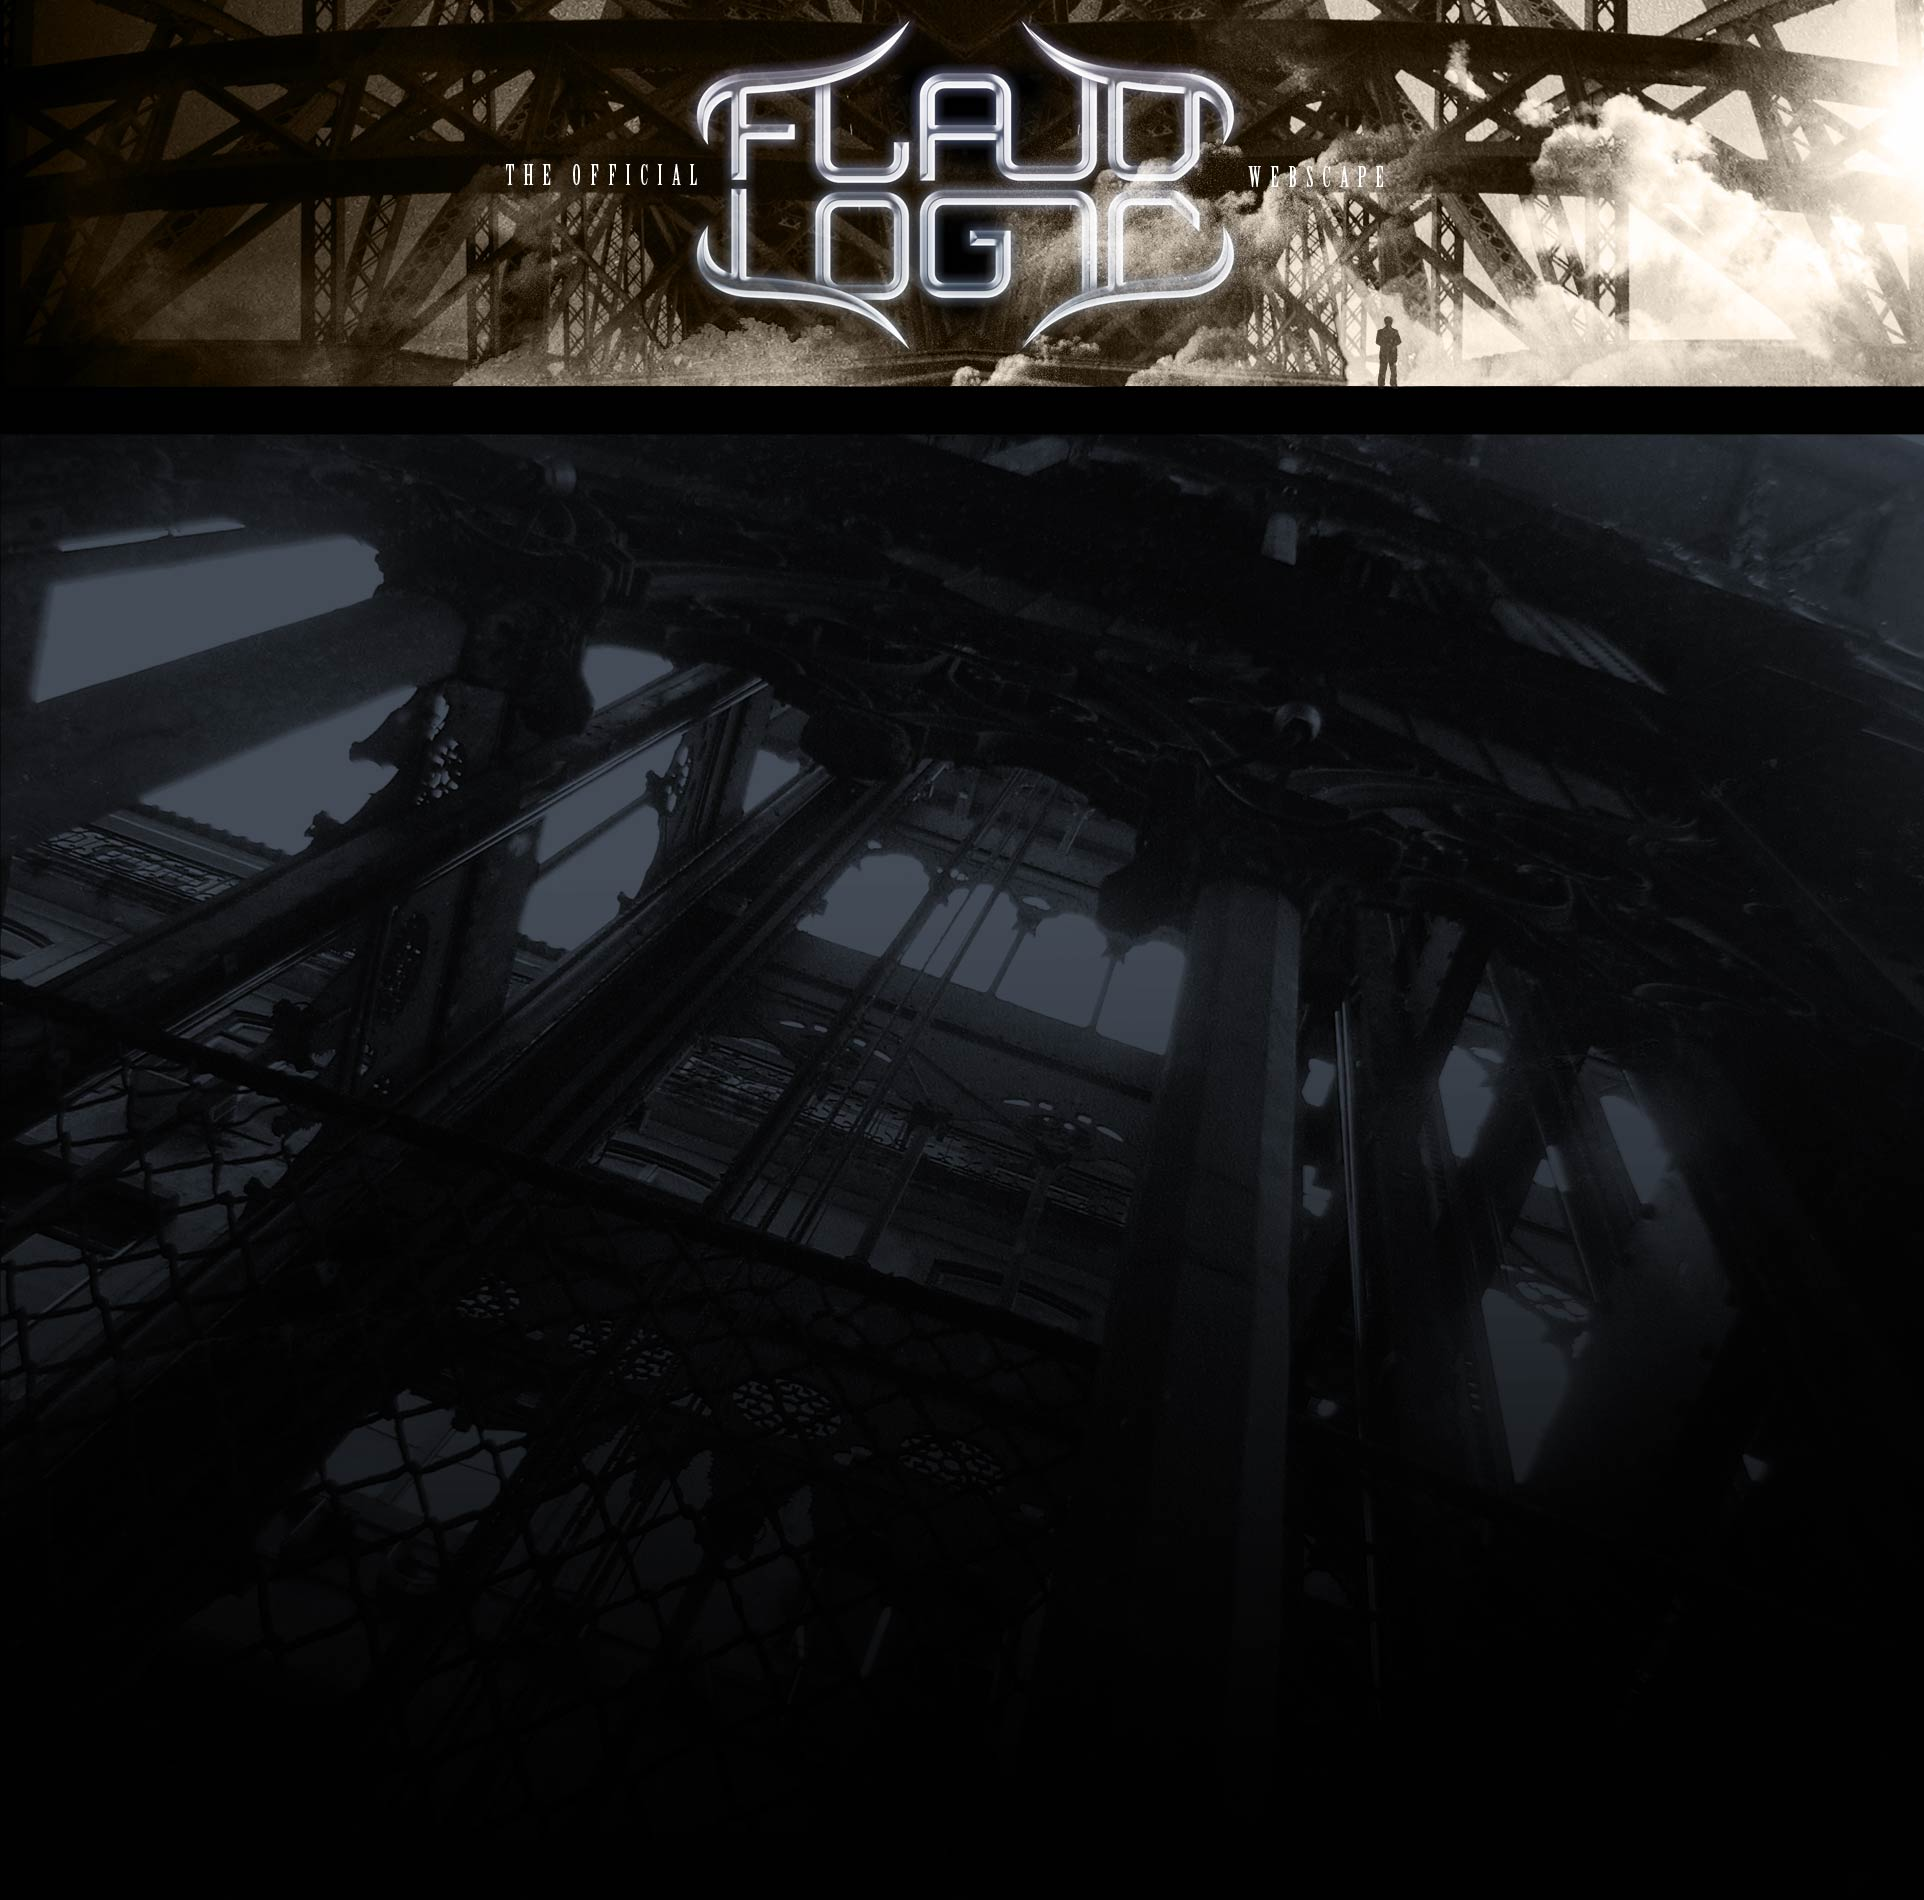
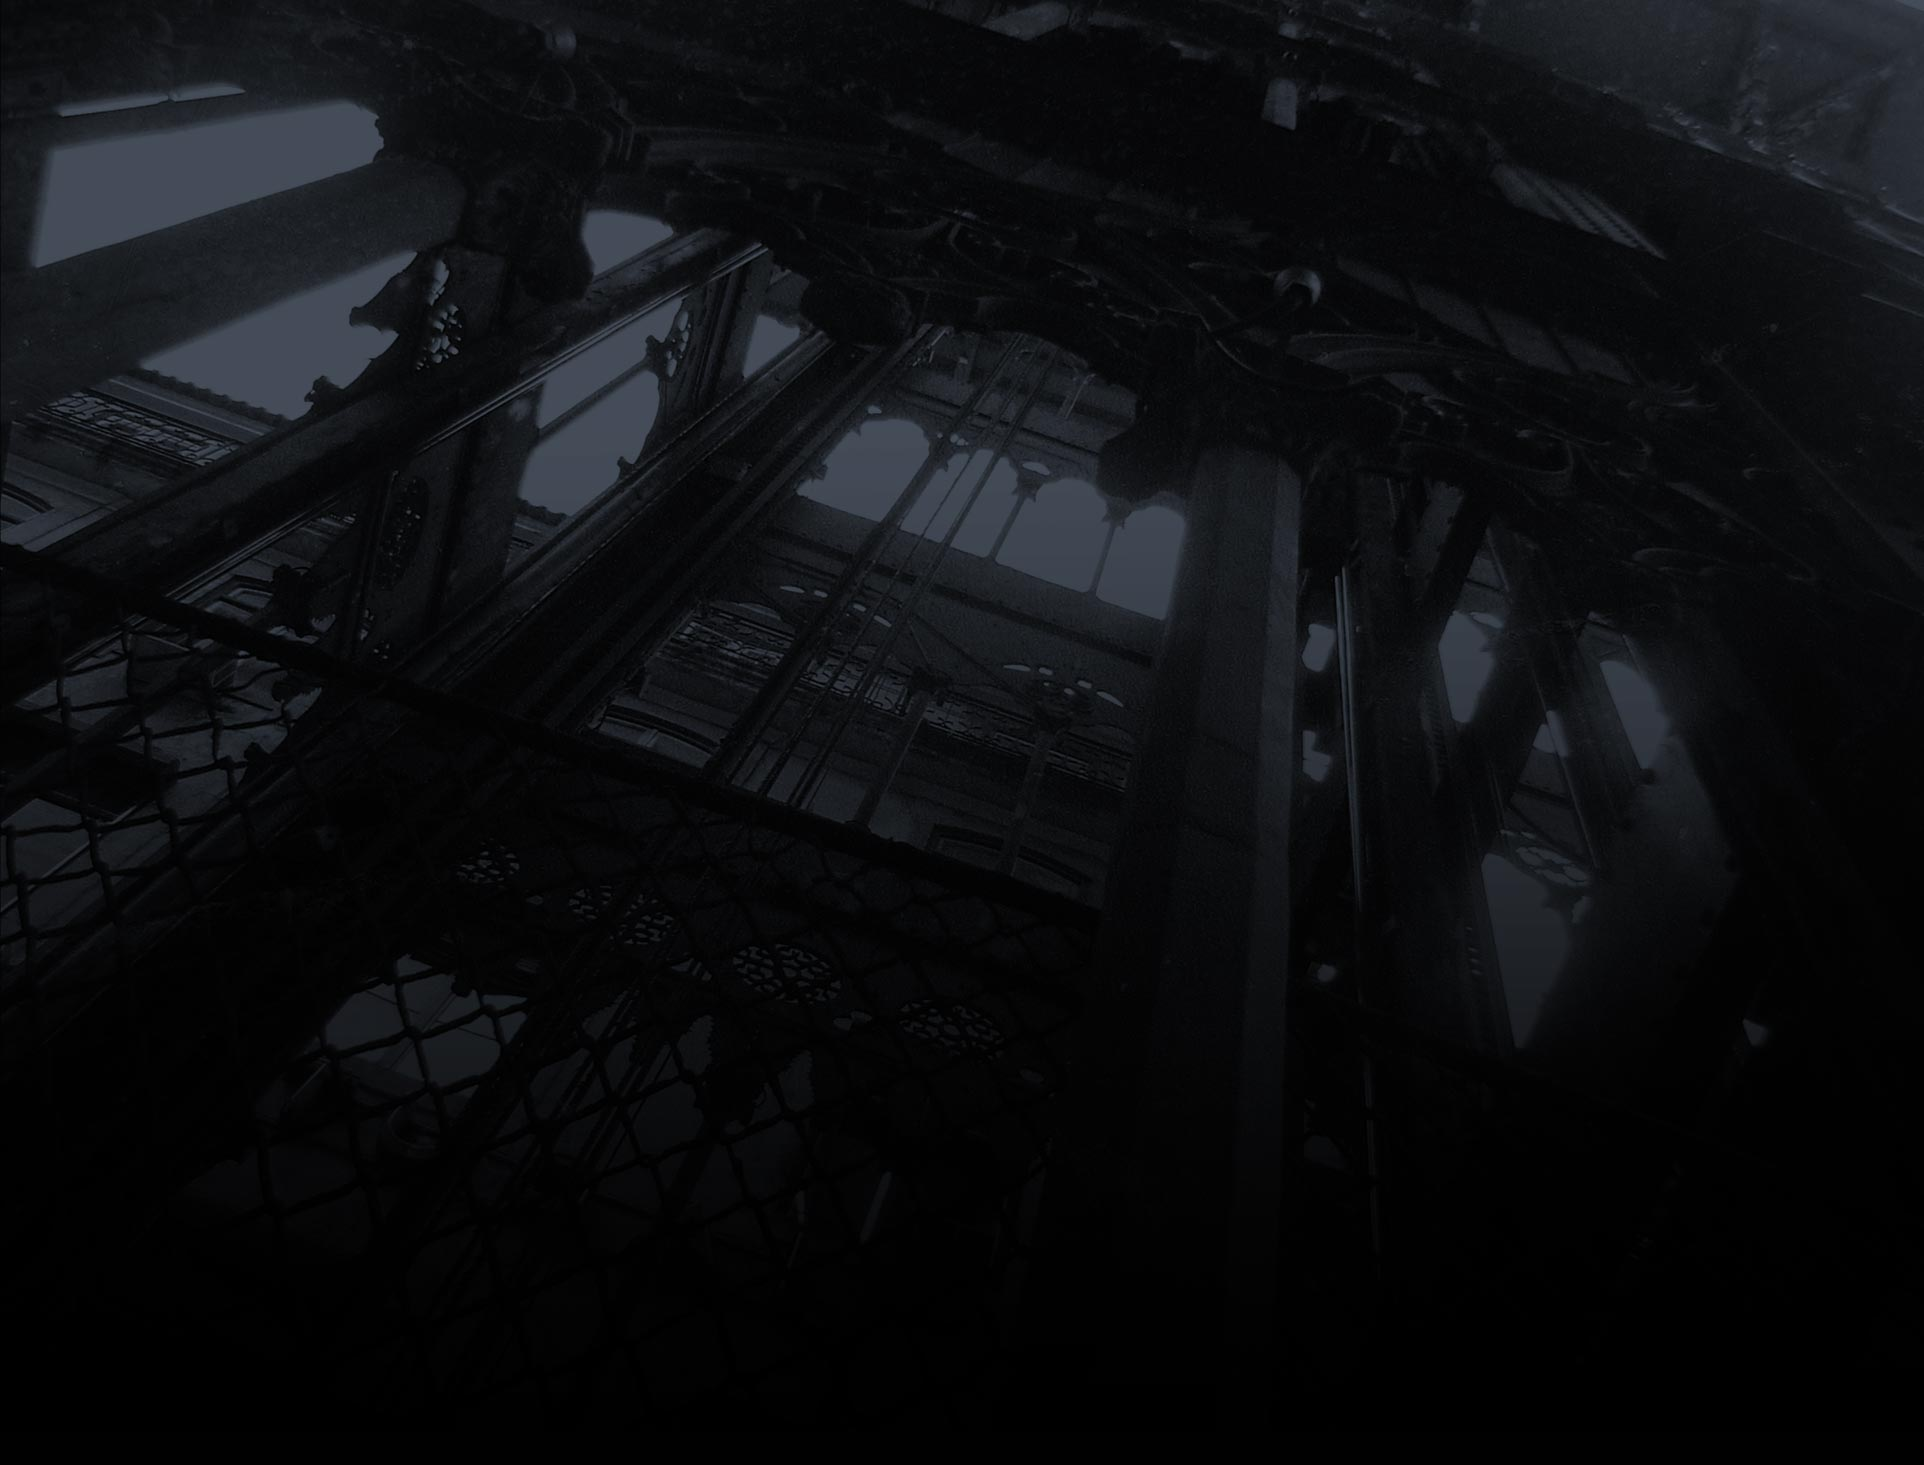
Refactor existing layout to responsive web design. In progress.

diff --git a/src/App.scss b/src/App.scss
@@ -11,6 +11,7 @@
 @import './components/common/Footer';
 @import './components/common/SocialMediaIcons';
 @import './components/common/CDBabyBuyNow';
+@import './components/common/Header';
 @import './components/MemberCard/MemberCard';
 @import './components/Navigation/Navigation';
 @import './components/DynamicImageGrid/DynamicImageGrid';
@@ -27,23 +28,16 @@
 @import './pages/SplashPage';
 @import './pages/HomePage';
 
-* {
-	box-sizing: border-box;
-}
-html, body {
-    height: 100%;
-    margin: 0px 0px 1px;
-    padding: 0px;
+html {
+		box-sizing: border-box;
+		margin: 0;
+		padding: 0;
 }
 body {
-    @include fontRender($cl-white, 400, 'Open Sans', 15px, 20px, normal);
-    background-color: $cl-black;
-    background-image: url('./images/art_bkgd.jpg');
-    background-position: center top;
-    background-repeat: no-repeat;
-    background-attachment: scroll;
-    color: $cl-white;
-    margin: 0px 0px 0px 0px;
+	background: $cl-black url('./images/art_bkgd.jpg') no-repeat 0px 436px scroll;
+	background-size: cover;
+  @include fontRender($cl-white, 400, 'Open Sans', 15px, 20px, normal);
+	color: $cl-white;
 }
 
 p {
@@ -164,12 +158,12 @@ button {
 
 //HomeCarousel
 .slick-slider .slick-track, .slick-slider .slick-list {
-	//height: 250px;
+	height: 400px;
 	margin: 2px 0px 10px 0px;
 }
 .slick-slide {
 	img {
-		height: auto;
-		width: 100%;
+		height: 100%;
+		width: auto;
 	}
 }

diff --git a/src/layout/Layout.js b/src/layout/Layout.js
@@ -10,17 +10,19 @@ export default class Layout extends React.Component {
 
     render() {
         return (
+<>
+            <Header>
+                <Navigation />
+            </Header>
             <div id="content-container" className={this.props.pageClass}>
-                <Header>
-                    <Navigation />
-                </Header>
                 <div className="column left">
                     {this.props.children}
                 </div>
                 {this.props.hasSidebar ? <div className="column right"><CDBabyBuyNow /><TwitterTimeline /></div> : ''}
                 <div style={{clear: 'both'}}/>
-                <Footer />
             </div>
+            <Footer />
+</>
         )
     }
 }

diff --git a/src/components/HomeCarousel/index.js b/src/components/HomeCarousel/index.js
@@ -31,8 +31,8 @@ export default class HomeCarousel extends React.Component {
             {Object.keys(mktg).map((key, index) => {
                 images.push(mktg[key]);
                 return (
-                  <div>
-                       <img key={index} onClick={() => this.setState({isOpen:true, photoIndex: index})} src={mktg[key]} alt=""/>
+                  <div key={index}>
+                       <img onClick={() => this.setState({isOpen:true, photoIndex: index})} src={mktg[key]} alt=""/>
                   </div>
                 )
 

diff --git a/src/layout/Layout.scss b/src/layout/Layout.scss
@@ -1,17 +1,20 @@
 #content-container {
-    width: 1264px;
-    margin: 0px auto 0px auto;
+    border: 1px solid green;
+    margin: 0 auto;
+    width: 1400px;
+
 }
 
 div.column {
-  float: left;
+  display: inline-block;
+  vertical-align: top;
 
   &.left {
-    width: 796px;
-    padding: 28px 0px 0px 138px;
+    width: 1046px;
+    padding: 0px 0px 0px 0px;
   }
   &.right {
-    width: 468px;
-    padding: 41px 0px 0px 17px;
+    width: 337px;
+    padding: 4px 0px 0px 17px;
   }
 }

diff --git a/public/index.html b/public/index.html
@@ -3,7 +3,7 @@
   <head>
     <meta charset="utf-8" />
     <link rel="icon" href="%PUBLIC_URL%/favicon.ico" />
-    <meta name="viewport" content="width=device-width, initial-scale=1" />
+    <meta name="viewport" content="width=device-width, initial-scale=1, user-scalable=no" />
     <meta name="theme-color" content="#000000" />
     <meta
       name="description"

diff --git a/src/components/Navigation/Navigation.scss b/src/components/Navigation/Navigation.scss
@@ -1,8 +1,8 @@
 header {
   nav {
-    background: transparent url('../../images/art_nav_bkgd.gif') no-repeat scroll left top;
+    background: $cl-black url('../../images/art_nav_bkgd.gif') no-repeat scroll center top;
     height: 48px;
-    margin: 386px 0px 0px 0px;
+    margin: 0;
     padding: 0px;
     text-align: center;
     ul {

diff --git a/src/components/common/Header.js b/src/components/common/Header.js
@@ -1,9 +1,11 @@
 import React from 'react';
+import HeaderBkgd from '../../images/art_hdr.jpg';
 
 export default class Analytics extends React.Component {
     render () {
         return (
             <header>
+                <img src={HeaderBkgd} />
                 {this.props.children}
             </header>
         );

diff --git a/src/components/common/Footer.scss b/src/components/common/Footer.scss
@@ -1,6 +1,3 @@
-//@import '../../less/colors';
-//@import '../../less/mixins';
-
 footer {
   margin: 100px auto 0px auto;
   width: 1264px;

diff --git a/src/components/common/Header.scss b/src/components/common/Header.scss
@@ -1,0 +1,8 @@
+header {
+  background-color: $cl-black;
+  border: 1px solid teal;
+  img {
+    width: 100%;
+    height: auto;
+  }
+}

diff --git a/src/pages/HomePage.scss b/src/pages/HomePage.scss
@@ -1,3 +1,4 @@
+/*
 .home-page {
 	div.column {
 	  &.left {
@@ -9,3 +10,4 @@
 	}
 
 }
+*/
